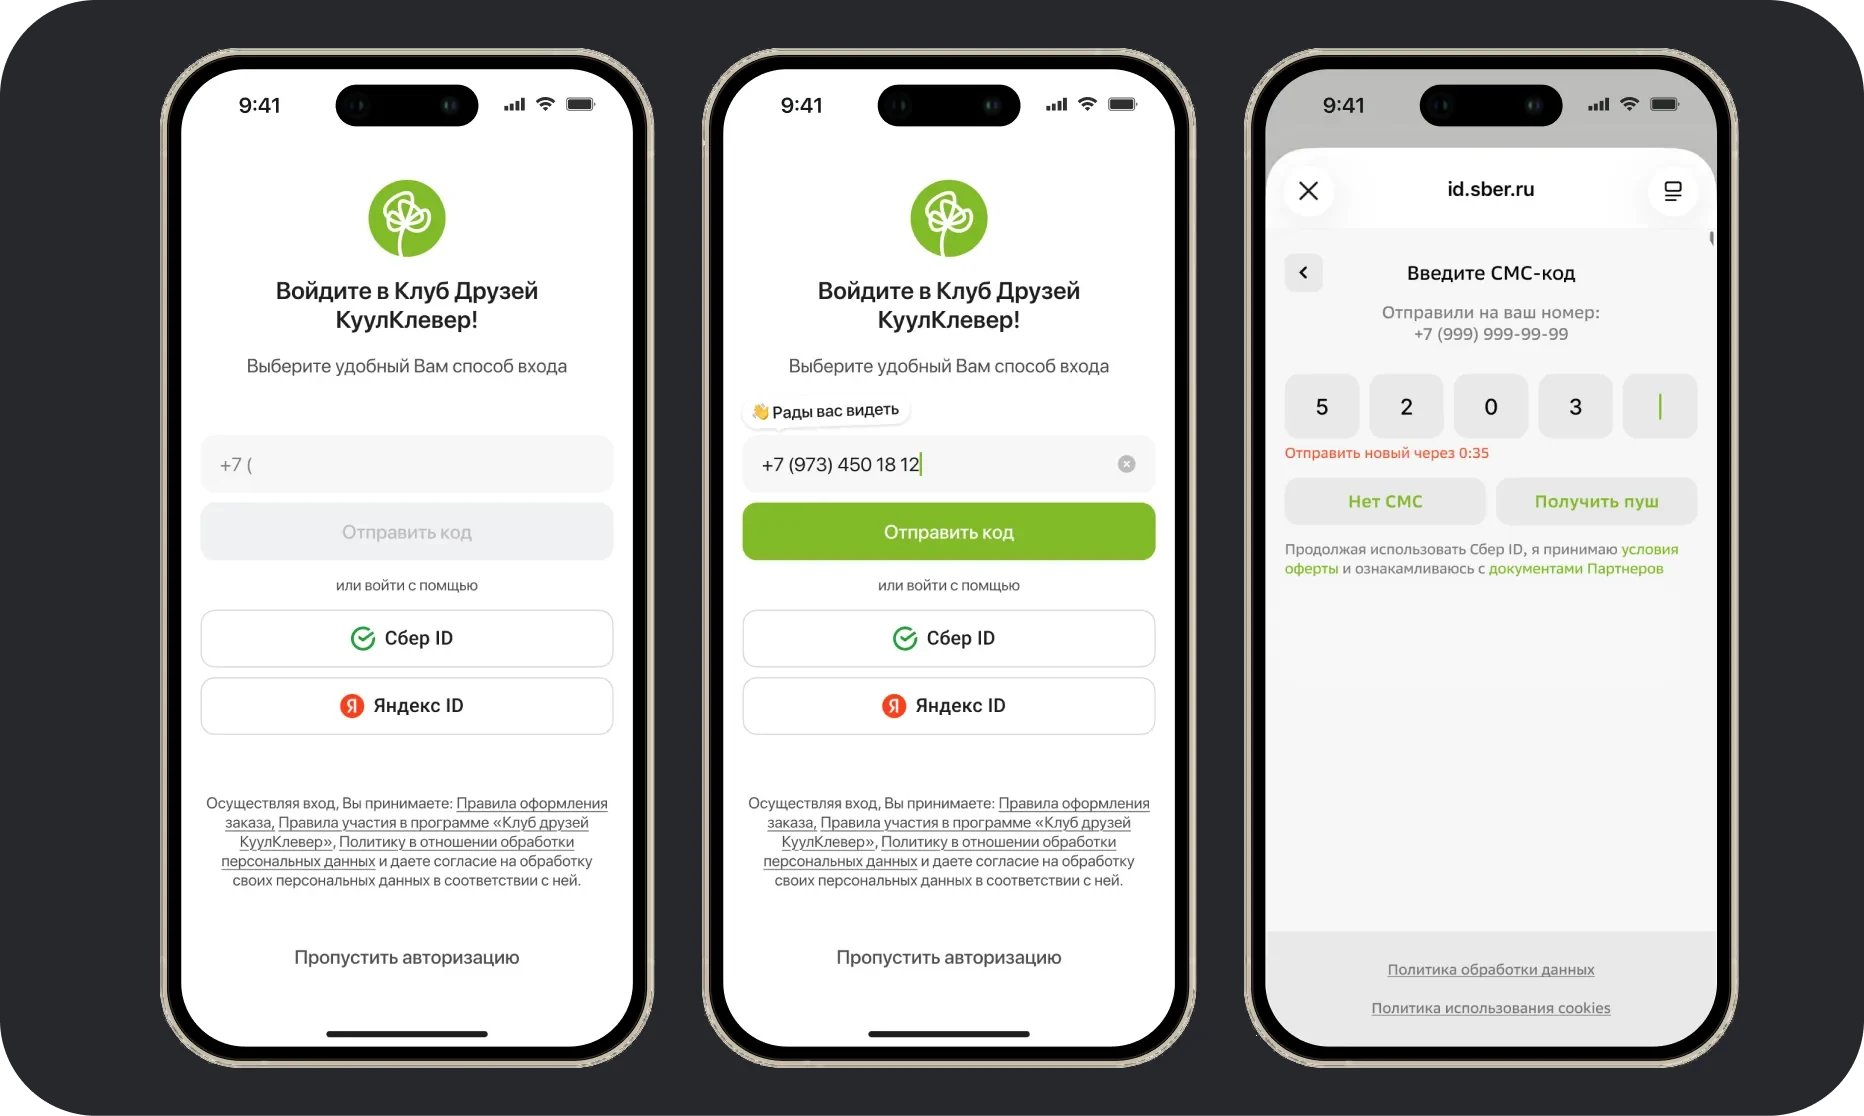
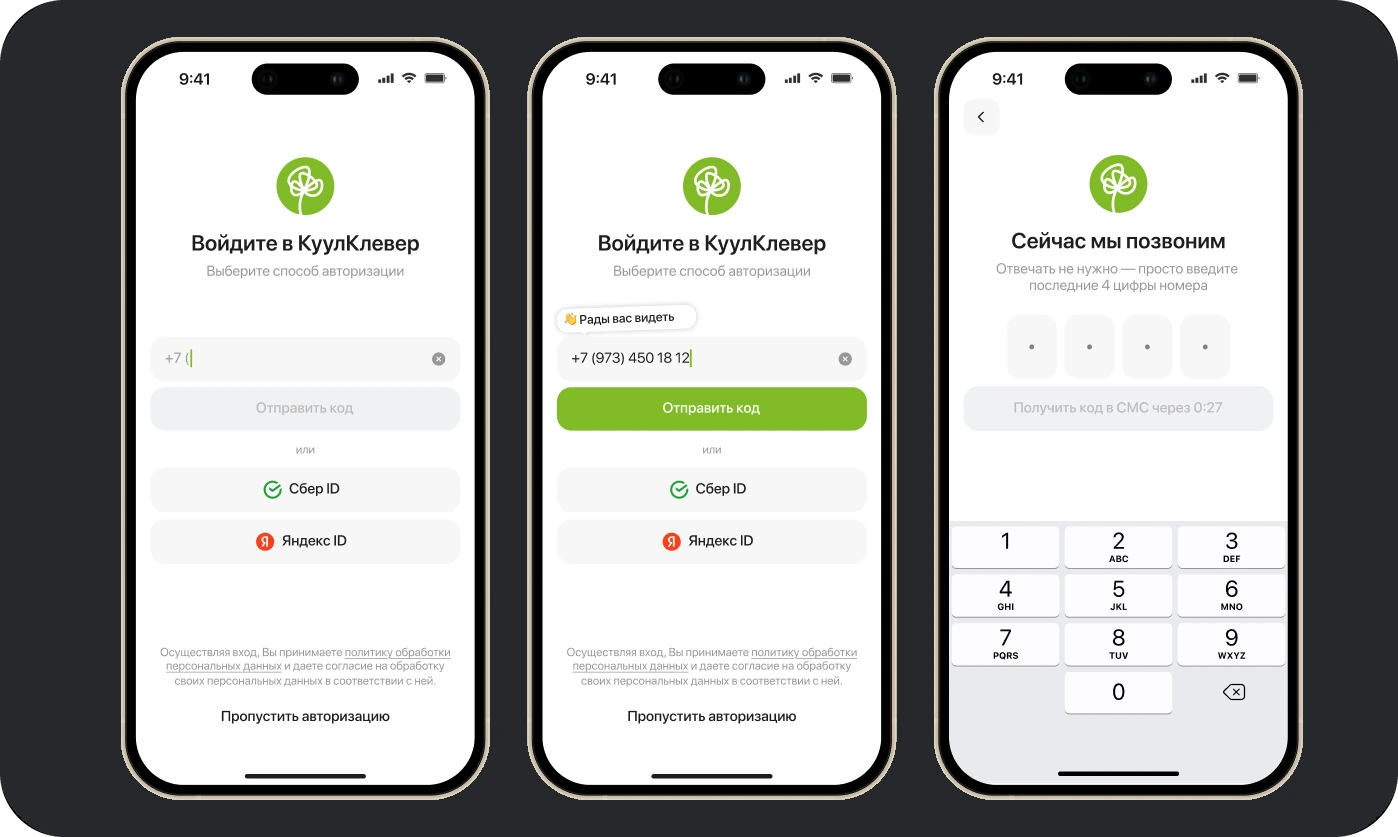
Онбординг: новые экраны авторизации
Claude-Session: https://claude.ai/code/session_01BbzCvaPYQ9pFtYCqfnGTSS

diff --git a/index.html b/index.html
@@ -1520,7 +1520,7 @@ picture{display:contents}
     </div>
     <div class="case__group">
       <h3 class="case__h3">Авторизация в 2 шага</h3>
-      <figure class="case__fig"><picture><source srcset="cases/onboarding/auth-dark.webp" media="(prefers-color-scheme: dark)"><img src="cases/onboarding/auth.webp" width="1864" height="1116" alt="Экран входа в Клуб Друзей со Сбер ID и Яндекс ID и экран ввода СМС-кода Сбер ID" loading="lazy"></picture><figcaption>Сократили авторизацию</figcaption></figure>
+      <figure class="case__fig"><picture><source srcset="cases/onboarding/auth-dark.webp?v=2" media="(prefers-color-scheme: dark)"><img src="cases/onboarding/auth.webp?v=2" width="1398" height="837" alt="Экраны входа: пустое поле номера, номер введён с подсказкой «Рады вас видеть» и экран «Сейчас мы позвоним» с вводом последних 4 цифр номера" loading="lazy"></picture><figcaption>Сократили авторизацию</figcaption></figure>
       <p class="case__text">Раньше на вход уходило 6 кликов. Теперь основной путь — это Сбер ID: пара тапов, и человек внутри. Имя подтягивается из Сбер, Яндекс или VK ID, поэтому анкету заполнять не нужно. Вход по телефону остался как запасной вариант.</p>
       <div class="case__card"><h4 class="case__h4">Сбер ID и Яндекс ID — выгода для бизнеса</h4><p class="case__text">При входе по телефону компания платит за каждую SMS с кодом или звонок для подтверждения номера. Вход через ID обходится без них. Чем больше людей входит через ID, тем меньше компания тратит на подтверждение номеров.</p></div>
       <figure class="case__fig"><div class="hscroll" tabindex="0" role="region" aria-label="Получение карты лояльности: 4 экрана, прокрутите вбок"><figure class="hscroll__item"><img src="cases/onboarding/card-1.webp?v=3" width="371" height="765" alt="Заставка с логотипом КуулКлевер" loading="lazy" draggable="false"><figcaption>Заставка</figcaption></figure><figure class="hscroll__item"><img src="cases/onboarding/card-2.webp?v=3" width="371" height="765" alt="Экран «Собираем карту…»" loading="lazy" draggable="false"><figcaption>Сборка карты</figcaption></figure><figure class="hscroll__item"><img src="cases/onboarding/card-3.webp?v=3" width="371" height="765" alt="Шторка «Как вас зовут?» с полем имени" loading="lazy" draggable="false"><figcaption>Ввод имени</figcaption></figure><figure class="hscroll__item"><img src="cases/onboarding/card-4.webp?v=3" width="371" height="765" alt="Готовая карта и преимущества клуба" loading="lazy" draggable="false"><figcaption>Готовая карта</figcaption></figure></div><figcaption>Получение карты лояльности</figcaption></figure>
